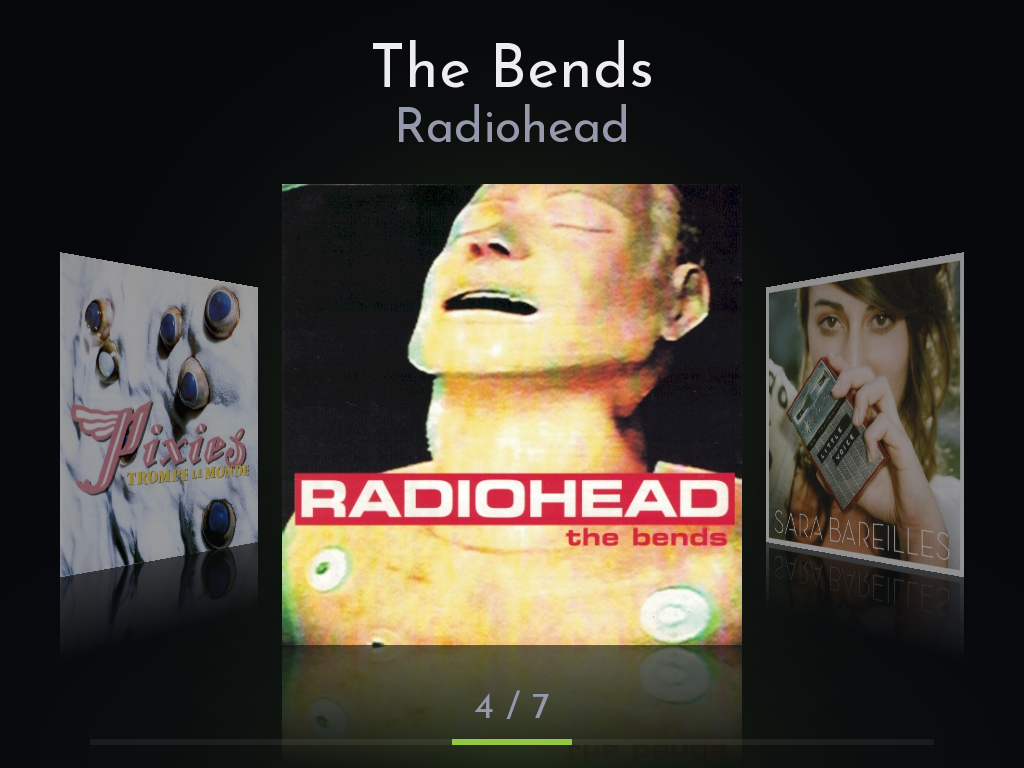
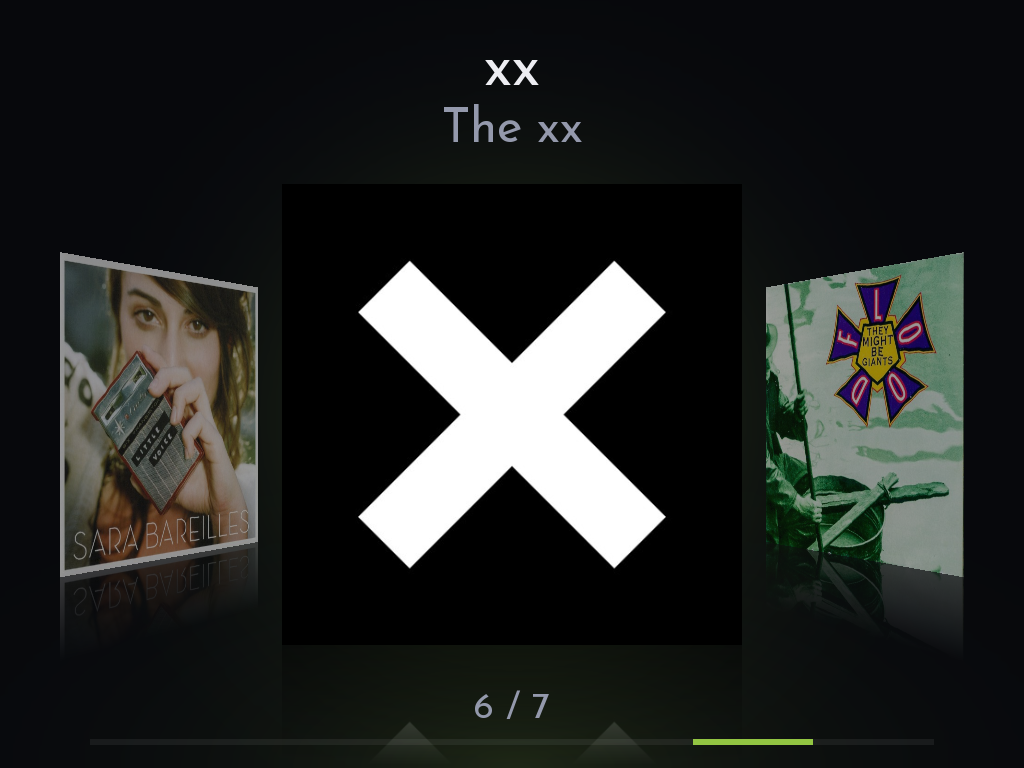
README: Muse's shelf on xx rather than The Bends

diff --git a/README.md b/README.md
@@ -34,7 +34,7 @@
     <td align="center" colspan="2"><img src="res/readme/menu.png" width="240" alt="The TortOS menu"><br><sub>The Brick's settings in one menu</sub></td>
   </tr>
   <tr>
-    <td align="center" colspan="3"><img src="res/readme/muse.png" width="240" alt="Muse's shelf of albums, with The Bends in focus"><br><sub>Your albums, in Muse</sub></td>
+    <td align="center" colspan="3"><img src="res/readme/muse.png" width="240" alt="Muse's shelf of albums, with xx in focus"><br><sub>Your albums, in Muse</sub></td>
     <td align="center" colspan="3"><img src="res/readme/nowplaying.png" width="240" alt="Muse's Now Playing"><br><sub>Now Playing, on SELECT from anywhere</sub></td>
   </tr>
 </table>
